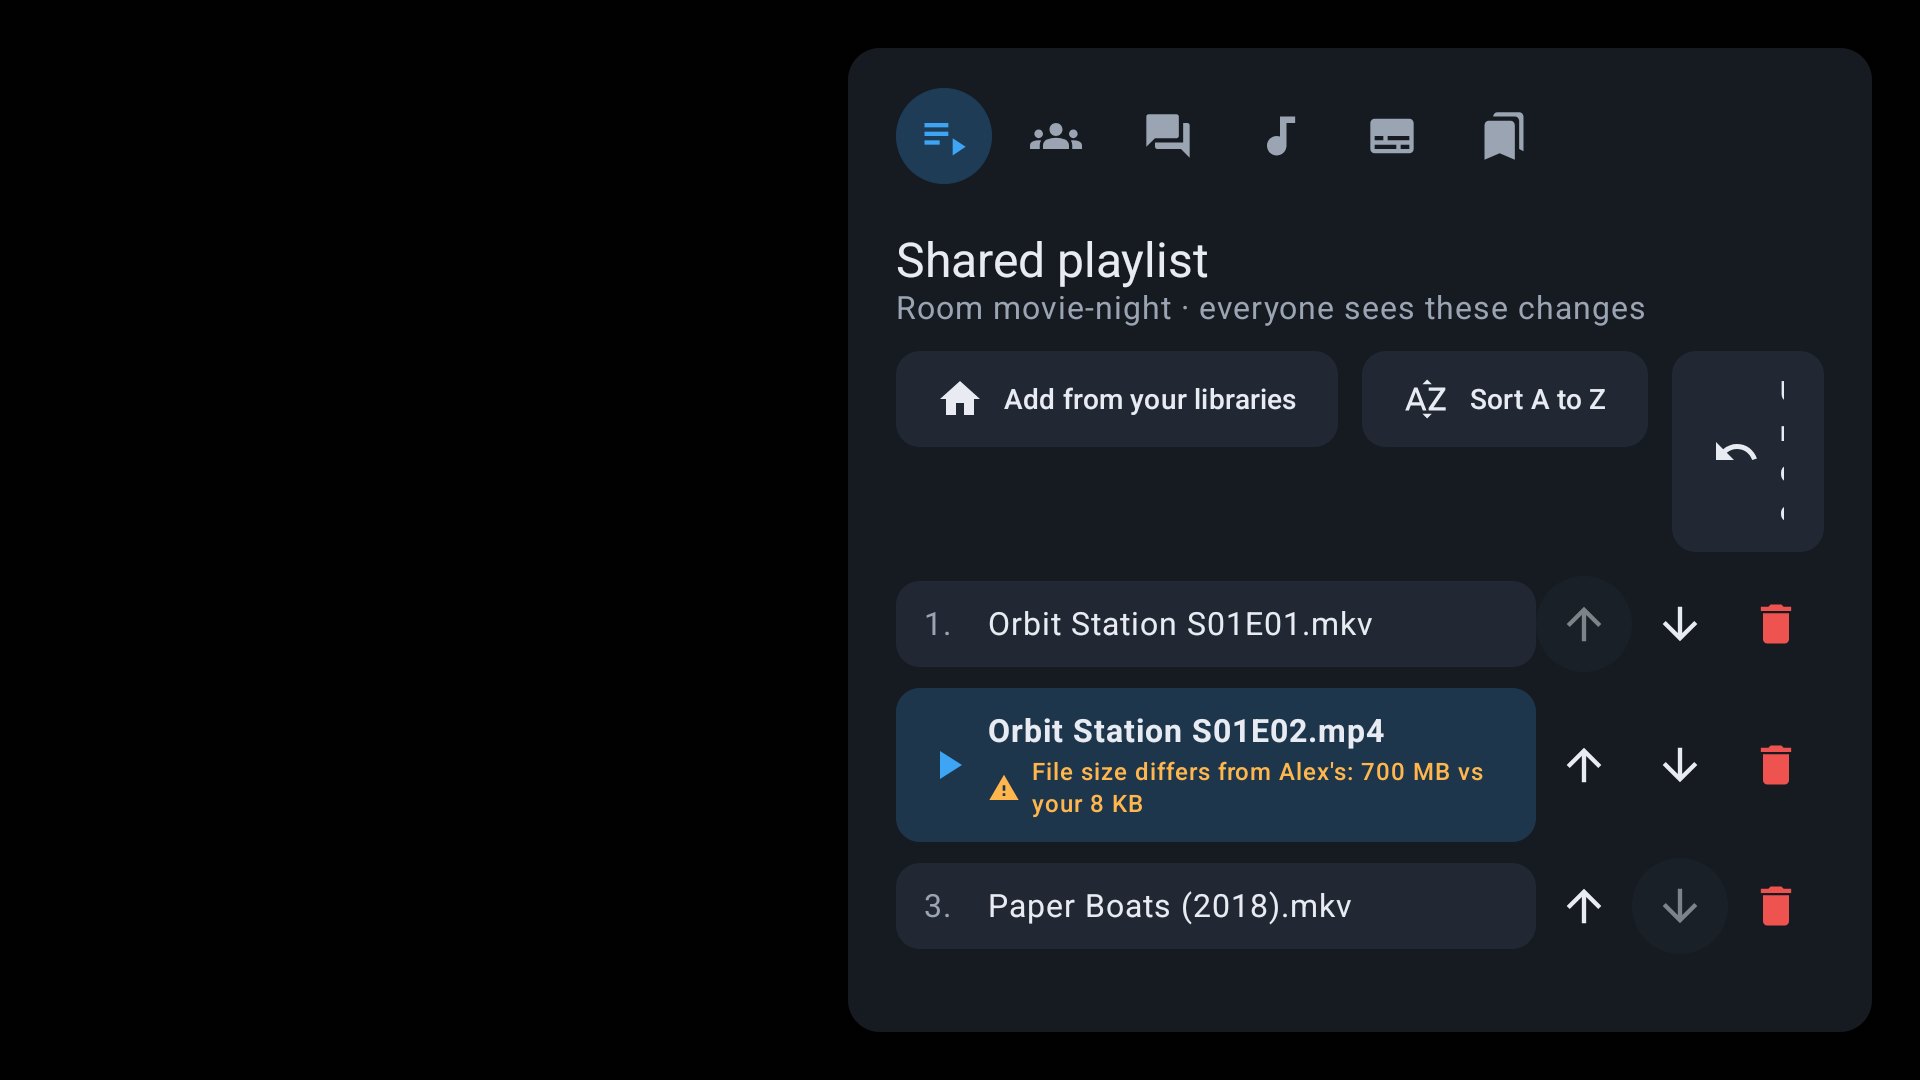
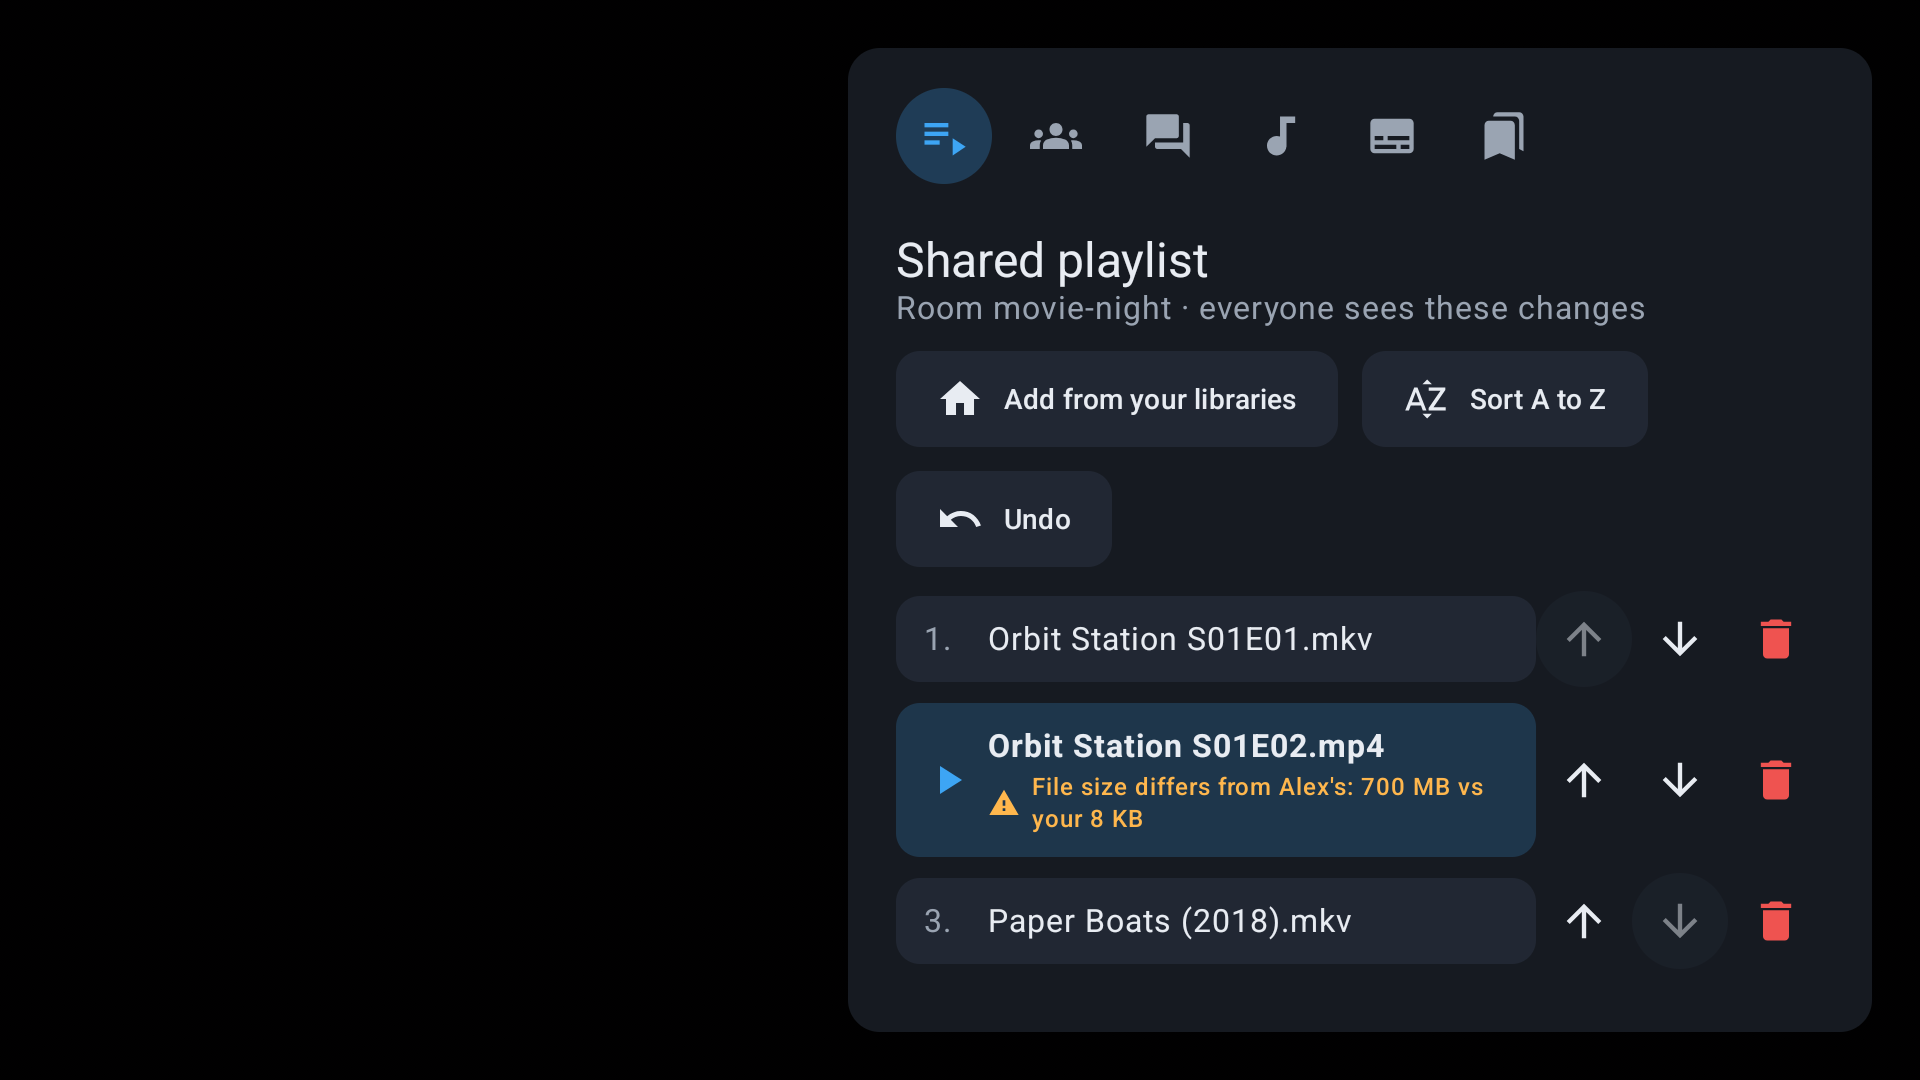
The TV player's shared playlist keeps its buttons whole, Add from your libraries, Add current, Sort A to Z and Undo wrapping onto a second line instead of the last ones being squeezed into a sliver that still takes the focus, and shows every entry's whole name and size warning on as many lines as th

diff --git a/app/src/main/java/com/yarmiplaytv/ui/player/Panels.kt b/app/src/main/java/com/yarmiplaytv/ui/player/Panels.kt
@@ -3,6 +3,8 @@ package com.yarmiplaytv.ui.player
 import androidx.compose.foundation.layout.Arrangement
 import androidx.compose.foundation.layout.PaddingValues
 import androidx.compose.foundation.layout.Column
+import androidx.compose.foundation.layout.ExperimentalLayoutApi
+import androidx.compose.foundation.layout.FlowRow
 import androidx.compose.foundation.layout.Row
 import androidx.compose.foundation.layout.Spacer
 import androidx.compose.foundation.layout.fillMaxSize
@@ -85,7 +87,7 @@ import kotlinx.coroutines.launch
 private fun PanelHeader(title: String, subtitle: String? = null) {
     Column(Modifier.padding(bottom = 12.dp)) {
         Text(title, style = MaterialTheme.typography.headlineSmall)
-        if (subtitle != null) Text(subtitle, color = AppColors.TextDim, maxLines = 1, overflow = TextOverflow.Ellipsis)
+        if (subtitle != null) Text(subtitle, color = AppColors.TextDim)
     }
 }
 
@@ -94,10 +96,11 @@ private fun SizeWarning(text: String) {
     Row(Modifier.padding(top = 4.dp), verticalAlignment = Alignment.CenterVertically) {
         Icon(Icons.Filled.Warning, contentDescription = null, tint = AppColors.NotReady, modifier = Modifier.size(16.dp))
         Spacer(Modifier.width(6.dp))
-        Text(text, color = AppColors.NotReady, style = MaterialTheme.typography.labelMedium, maxLines = 2, overflow = TextOverflow.Ellipsis)
+        Text(text, color = AppColors.NotReady, style = MaterialTheme.typography.labelMedium)
     }
 }
 
+@OptIn(ExperimentalLayoutApi::class)
 @Composable
 internal fun PlaylistPanel(container: AppContainer, nav: Navigator, focus: FocusRequester) {
     val room by container.sync.room.collectAsStateWithLifecycle()
@@ -113,7 +116,8 @@ internal fun PlaylistPanel(container: AppContainer, nav: Navigator, focus: Focus
         val np = nowPlaying
         val canAddCurrent = np != null && room.playlist.none { Filenames.same(it, np.fileName) }
         val canUndo by container.playlist.shared.canUndo.collectAsStateWithLifecycle()
-        Row(horizontalArrangement = Arrangement.spacedBy(12.dp), modifier = Modifier.padding(bottom = 12.dp)) {
+        // The buttons wrap rather than squeeze the last ones into slivers in the panel's width.
+        FlowRow(horizontalArrangement = Arrangement.spacedBy(12.dp), verticalArrangement = Arrangement.spacedBy(12.dp), modifier = Modifier.padding(bottom = 12.dp)) {
             ActionButton("Add from your libraries", { nav.popTo(Screen.Home) }, if (room.playlist.isEmpty()) Modifier.focusRequester(focus) else Modifier, icon = Icons.Filled.Home)
             if (canAddCurrent && np != null) {
                 ActionButton("Add current", { container.sync.client?.addToPlaylist(np.fileName) }, icon = Icons.Filled.Add)
@@ -146,7 +150,8 @@ internal fun PlaylistPanel(container: AppContainer, nav: Navigator, focus: Focus
                             } else {
                                 Text("${index + 1}.", color = AppColors.TextDim, modifier = Modifier.width(32.dp))
                             }
-                            Column {
+                            // The whole name, on as many lines as it takes.
+                            Column(Modifier.weight(1f)) {
                                 Text(file, fontWeight = if (current) FontWeight.Bold else FontWeight.Normal)
                                 room.sizeWarning(file)?.let { SizeWarning(it) }
                             }
